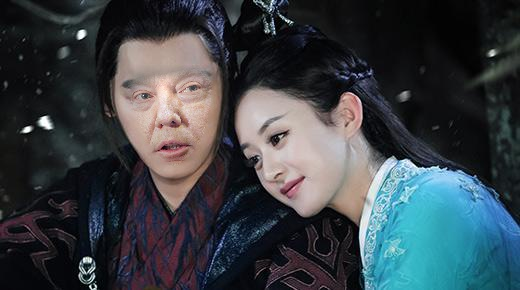
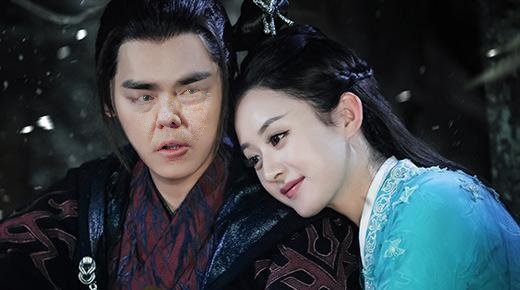
revert face landmark detector

Changed region(s): [[0.2462, 0.2483, 0.4, 0.4655], [0.3385, 0.4966, 0.3692, 0.5276]]

diff --git a/face_points_detection.py b/face_points_detection.py
@@ -2,7 +2,7 @@
 import dlib
 import numpy as np
 
-PREDICTOR_PATH = 'models/shape_predictor_81_face_landmarks.dat'
+PREDICTOR_PATH = 'models/shape_predictor_68_face_landmarks.dat'
 predictor = dlib.shape_predictor(PREDICTOR_PATH)
 ## Face and points detection
 def face_points_detection(img, bbox:dlib.rectangle):
